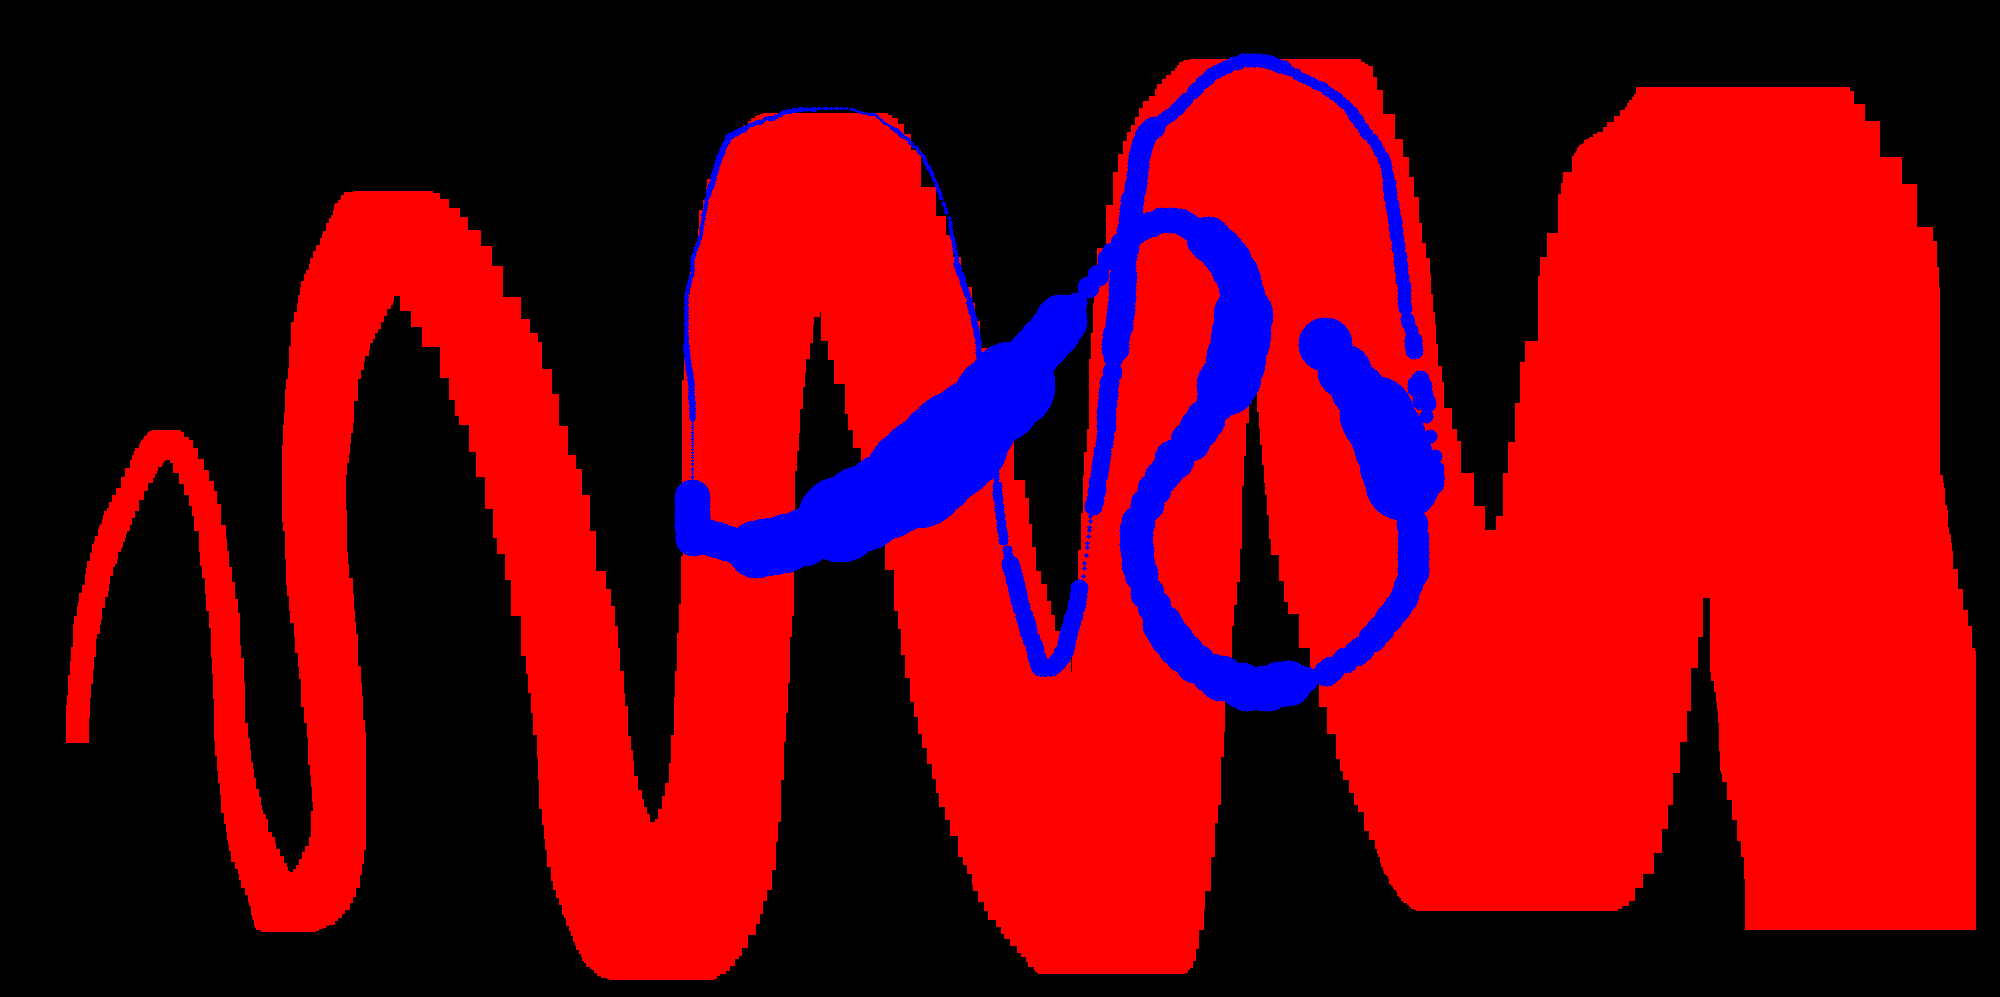
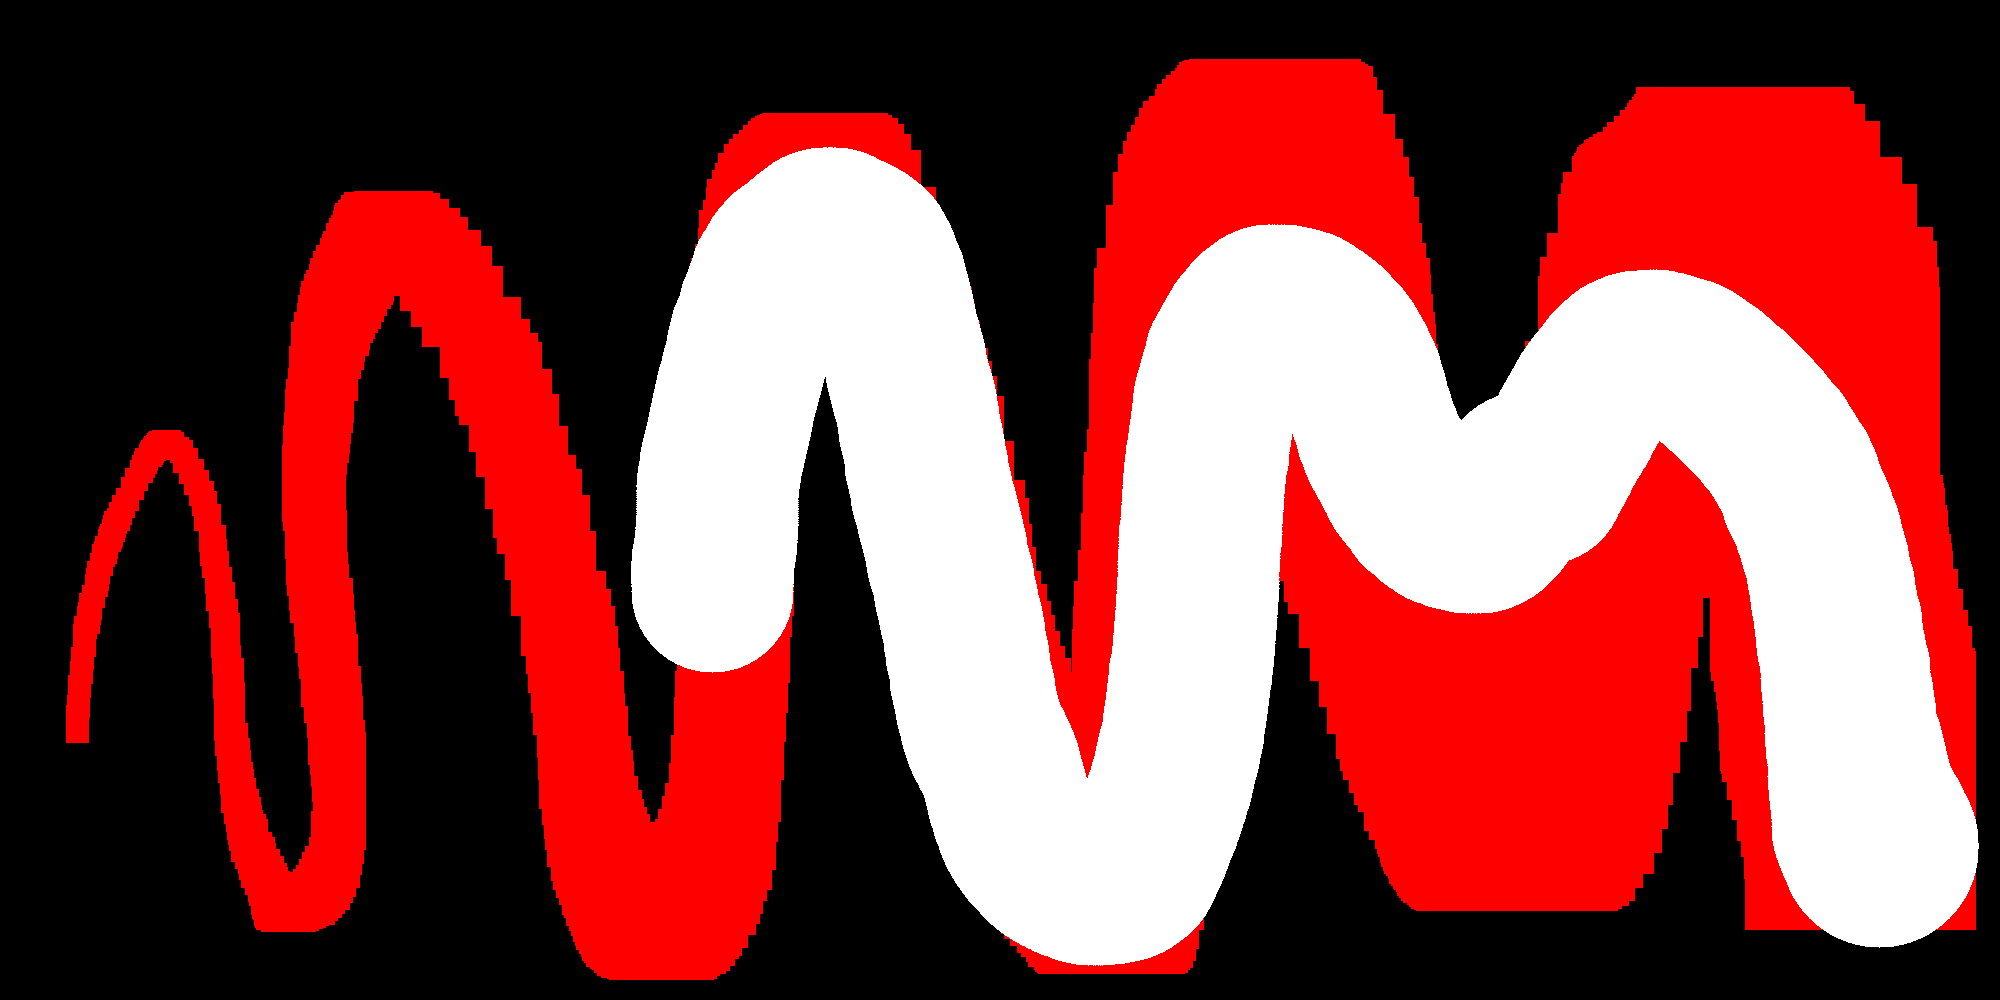
readme and images

Changed region(s): [[0.31, 0.0311, 0.992, 0.995]]

diff --git a/Window/Window.cpp b/Window/Window.cpp
@@ -21,8 +21,7 @@ Window::Window(char* path)
         m_Width = image_get_width(m_Image);
         m_Height = image_get_height(m_Image);
 
-        idat_data = image_get_IDAT_data(m_Image);
-        image_pixel_data = decomp(idat_data, image_get_size(m_Image), image_get_IDAT_size(m_Image));
+        image_pixel_data = decompress_image(m_Image);
     }
 
     /* Initialize the library */
@@ -59,10 +58,8 @@ Window::Window(char* path)
     m_Brush = new Brush(xPos, yPos, m_Timer.GetTimeMilliseconds());
     m_PointBuffer = new PointBuffer(m_Brush, m_Width, m_Height, image_pixel_data);
 
-    if (idat_data != NULL)
-    {
-        free(idat_data);
-    }
+    if(m_Image != NULL)
+        fclose(m_Image);
 }
 
 Window::~Window()
@@ -82,8 +79,8 @@ void Window::Update()
     long time = m_Timer.GetTimeMilliseconds();
 
     // lock window input handling and point insertion/removal to 60fps
-    if (time - m_Timer.m_LastTime < 1000.0 / m_fps)
-        return;
+    //if (time - m_Timer.m_LastTime < 1000.0 / m_fps)
+    //    return;
 
     WindowResize();
     CursorMovement();
@@ -136,12 +133,14 @@ void Window::KeyCallback(int key, int scancode, int action, int mods)
             m_Brush->ChangeState(STATE_DRAW);
         else if (key == GLFW_KEY_E)
             m_Brush->ChangeState(STATE_ERASE);
-        //else if (key == GLFW_KEY_UP)
-        //    m_Brush->SetRadius(+1);
-        //else if (key == GLFW_KEY_DOWN)
-        //    m_Brush->SetRadius(-1);
-/*        else */if (key == GLFW_KEY_P)
+        else if (key == GLFW_KEY_UP)
+            m_Brush->SetRadius(+1);
+        else if (key == GLFW_KEY_DOWN)
+            m_Brush->SetRadius(-1);
+        else if (key == GLFW_KEY_P)
             TakeSnapshot();
+        else if (key == GLFW_KEY_V)
+            m_Brush->ToggleSpeedMode();
     }
 }
 

diff --git a/Brush/Brush.cpp b/Brush/Brush.cpp
@@ -3,7 +3,7 @@
 float vector_length(cursor v);
 
 Brush::Brush(double cursor_x, double cursor_y, long time)
-	: m_State(STATE_INACTIVE)
+	: m_State(STATE_INACTIVE), m_SpeedMode(false)
 {
 	m_Cursor.x = cursor_x;
 	m_Cursor.y = cursor_y;
@@ -19,8 +19,8 @@ Brush::Brush(double cursor_x, double cursor_y, long time)
 	m_Radius = 0;
 
 	//start with red color
-	m_Color.r = 0;
-	m_Color.g = 0;
+	m_Color.r = 255;
+	m_Color.g = 255;
 	m_Color.b = 255;
 }
 
@@ -43,6 +43,9 @@ void Brush::SetCursorPos(double xPos, double yPos, long time)
 	deltaPos.x = m_Cursor.x - m_DeltaAreaCenter.x;
 	deltaPos.y = m_Cursor.y - m_DeltaAreaCenter.y;
 
+	if (!m_SpeedMode)
+		return;
+
 	if(vector_length(deltaPos) > m_DeltaAreaRadius)
 	{
 		// set new delta area center, calculate velocity
@@ -50,12 +53,19 @@ void Brush::SetCursorPos(double xPos, double yPos, long time)
 
 		m_Velocity = vector_length(deltaPos) / timeElapsed;
 
-		SetRadius();
+		SetRadius(0);
 
 		m_DeltaAreaCenter = m_Cursor;
 		m_DeltaStartTime = time;
 		m_LastVelocity = m_Velocity;
 	}
+}
+
+void Brush::ToggleSpeedMode()
+{
+	m_SpeedMode = !m_SpeedMode;
+
+	printf("%d\n", m_SpeedMode);
 }
 
 int Brush::GetRadius()
@@ -68,7 +78,7 @@ int Brush::GetRadius()
 //	m_Radius = m_Radius == 0 && mod < 0 ? m_Radius : m_Radius + mod;
 //}
 
-void Brush::SetRadius()
+void Brush::SetRadius(int mod)
 {
 	//float delta_velocity = vector_length(m_Velocity) - vector_length(m_LastVelocity);
 	//float delta_velocity = m_Velocity - m_LastVelocity;
@@ -77,7 +87,10 @@ void Brush::SetRadius()
 
 	//m_Radius = m_Radius + scaling_factor < 0 ? 0 : m_Radius + scaling_factor;
 
-	m_Radius = m_Velocity * 20 > 150 ? 150 : m_Velocity * 20;
+	if (m_SpeedMode)
+		m_Radius = m_Velocity * 20 > 150 ? 150 : m_Velocity * 20;
+	else
+		m_Radius += mod;
 }
 
 color Brush::GetColor()

diff --git a/Brush/Brush.h b/Brush/Brush.h
@@ -23,7 +23,7 @@ enum brush_state
 	STATE_DRAW, STATE_ERASE, STATE_INACTIVE
 };
 
-#define DELTA_AREA_RADIUS 75
+#define DELTA_AREA_RADIUS 50
 // could also be static class
 class Brush
 {
@@ -37,11 +37,13 @@ public:
 	void ChangeState(uint8_t state);
 	uint8_t GetState();
 
+	void ToggleSpeedMode();
+
 	int GetRadius();
 	//void SetRadius(int mod);
 
 	// delta milliseconds as argument
-	void SetRadius();
+	void SetRadius(int mod);
 
 	color GetColor();
 
@@ -56,6 +58,7 @@ private:
 	int m_DeltaAreaRadius;
 	long m_DeltaStartTime; // time in milliseconds when the DeltaArea was escaped
 
+	bool m_SpeedMode;
 	//cursor m_Velocity;
 	//cursor m_LastVelocity;
 
